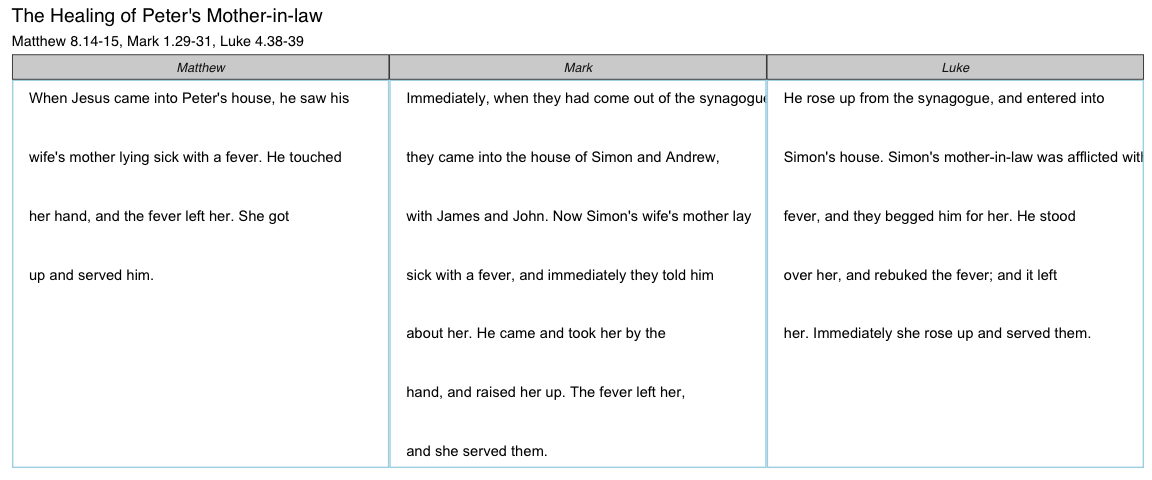
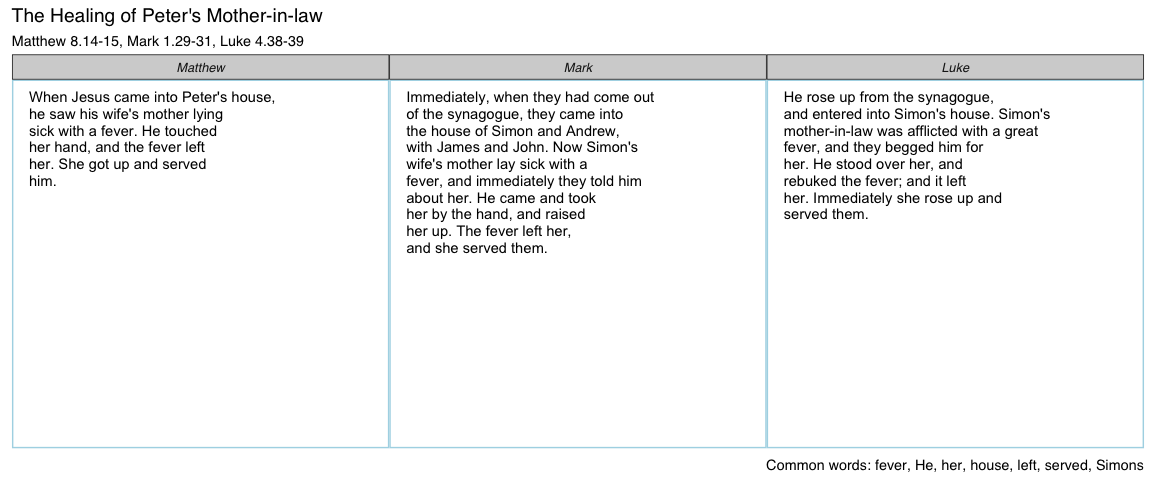
added caption, updated docs, readme

diff --git a/README.md b/README.md
@@ -11,12 +11,13 @@ Installation
 
 ``` r
 devtools::install_github("daranzolin/ggtextparallels")
+library(ggtextparallels)
 ```
 
 Examples
 --------
 
-The central function, `ggtextparallel`, takes two arguments: a `parallel_no`, which can be gleaned from `gospel_parallels`, and `lang`, the language argument.
+The central function, `ggtextparallel`, takes three arguments: a `parallel_no`, which can be gleaned from `gospel_parallels`, `lang`, the language argument, and `words_per_row`, which allows users to adjust the amount of words displayed on each row.
 
 156 gospel parallels are available:
 
@@ -35,19 +36,20 @@ The central function, `ggtextparallel`, takes two arguments: a `parallel_no`, wh
     #> 5       
     #> 6
 
-English:
+Here I request the English parallel of 'The Healing of Peter's Mother-in-Law':
 
 ``` r
-library(ggtextparallels)
-ggtextparallel(37)
+ggtextparallel(parallel_no = 37, lang = "eng", words_per_row = 6)
 ```
 
 ![](README-example-1.png)
 
-Greek:
+Words common to each pericope are listed in the plot caption.
+
+I can view the Greek by flipping the `lang` argument:
 
 ``` r
-ggtextparallel(37, lang = "grc")
+ggtextparallel(37, "grc", 5)
 ```
 
 ![](README-unnamed-chunk-4-1.png)
